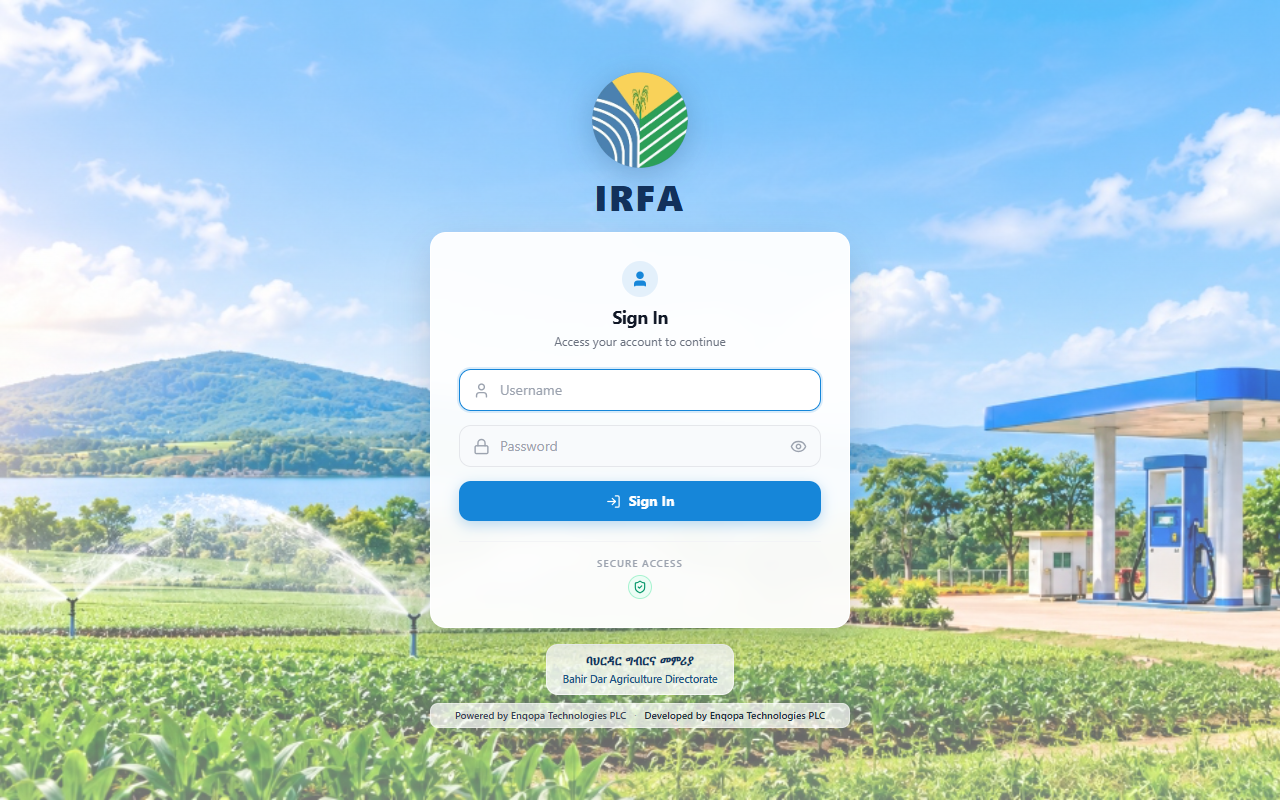
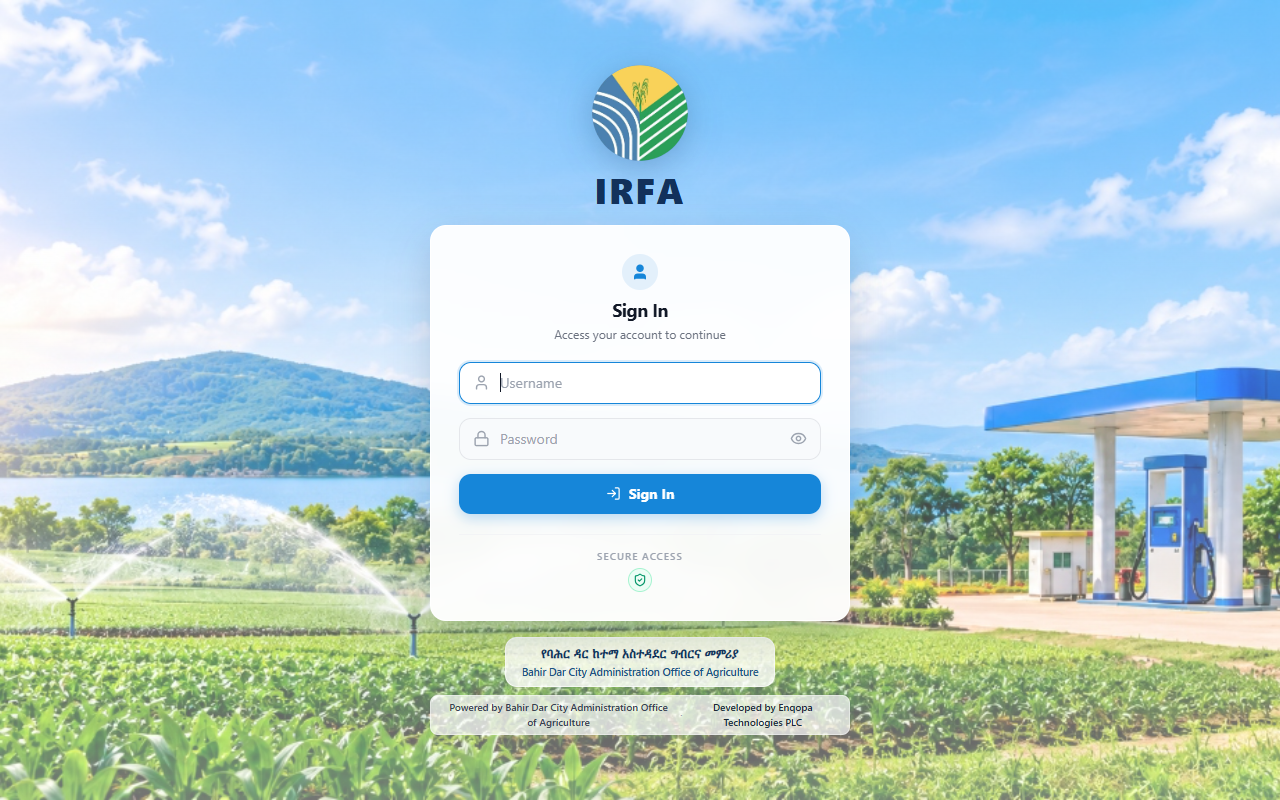
feat: update institutional owner to Bahir Dar City Administration Office of Agriculture

diff --git a/server/test_browser_e2e.ts b/server/test_browser_e2e.ts
@@ -93,17 +93,17 @@ async function runBrowserAcceptanceTests() {
     // 1.1 Minimal Institutional Landing / Login Page
     await page.goto(APP_URL, { waitUntil: 'networkidle2' });
     const landingTitle = await page.title();
-    const hasAmharicName = await page.evaluate(() => document.body.innerText.includes('ባህርዳር ግብርና መምሪያ'));
-    const hasEnglishName = await page.evaluate(() => document.body.innerText.includes('Bahir Dar Agriculture Directorate'));
+    const hasAmharicName = await page.evaluate(() => document.body.innerText.includes('የባሕር ዳር ከተማ አስተዳደር ግብርና መምሪያ'));
+    const hasEnglishName = await page.evaluate(() => document.body.innerText.includes('Bahir Dar City Administration Office of Agriculture'));
     const hasIrfaLogo = await page.evaluate(() => !!document.querySelector('img[alt*="IRFA"]'));
 
     results.push({
       suite: 'TEST 1 — APPLICATION & AUTHENTICATION',
-      testCase: 'Minimal institutional login layout & Bahir Dar Agriculture Directorate branding',
+      testCase: 'Minimal institutional login layout & Bahir Dar City Administration Office of Agriculture branding',
       role: 'Public / Unauthenticated',
-      expected: 'Title "IRFA | Bahir Dar Agriculture Directorate" with Amharic and English institutional branding',
-      actual: `Title: "${landingTitle}", Directorate branding: ${hasAmharicName && hasEnglishName}, Logo: ${hasIrfaLogo}`,
-      status: landingTitle.includes('Bahir Dar Agriculture Directorate') && hasAmharicName && hasEnglishName && hasIrfaLogo ? 'PASS' : 'FAIL',
+      expected: 'Title "IRFA | Bahir Dar City Administration Office of Agriculture" with Amharic and English institutional branding',
+      actual: `Title: "${landingTitle}", Office branding: ${hasAmharicName && hasEnglishName}, Logo: ${hasIrfaLogo}`,
+      status: landingTitle.includes('Bahir Dar City Administration Office of Agriculture') && hasAmharicName && hasEnglishName && hasIrfaLogo ? 'PASS' : 'FAIL',
     });
 
     // 1.2 Direct Centered Login Form Presentation

diff --git a/client/src/pages/LoginPage.tsx b/client/src/pages/LoginPage.tsx
@@ -53,7 +53,7 @@ export const LoginPage: React.FC = () => {
           <div className="w-20 h-20 sm:w-24 sm:h-24 mb-2 drop-shadow-[0_6px_16px_rgba(18,49,91,0.25)] transition-transform hover:scale-105 duration-300">
             <img
               src="/branding/irfa-mark.svg"
-              alt="IRFA Agriculture Directorate Emblem"
+              alt="IRFA Office of Agriculture Emblem"
               className="w-full h-full object-contain"
               onError={(e) => {
                 (e.target as HTMLImageElement).src = '/branding/irfa-logo.png';
@@ -188,16 +188,16 @@ export const LoginPage: React.FC = () => {
           {/* Institutional Identity */}
           <div className="inline-block bg-white/80 backdrop-blur-xs px-4 py-1.5 rounded-xl shadow-xs border border-white/60">
             <p className="text-xs sm:text-[13px] font-bold text-[#12315B] tracking-wide leading-snug">
-              ባህርዳር ግብርና መምሪያ
+              የባሕር ዳር ከተማ አስተዳደር ግብርና መምሪያ
             </p>
             <p className="text-[11px] font-semibold text-[#1E5285] tracking-tight mt-0.5">
-              Bahir Dar Agriculture Directorate
+              Bahir Dar City Administration Office of Agriculture
             </p>
           </div>
 
           {/* Technology Credits */}
           <div className="flex flex-col sm:flex-row items-center justify-center gap-1 sm:gap-2 text-[10px] text-gray-700 bg-white/70 backdrop-blur-xs px-3.5 py-1 rounded-lg shadow-xs border border-white/40">
-            <span className="font-medium">Powered by Enqopa Technologies PLC</span>
+            <span className="font-medium">Powered by Bahir Dar City Administration Office of Agriculture</span>
             <span className="hidden sm:inline text-gray-400">·</span>
             <span className="font-semibold text-gray-800">Developed by Enqopa Technologies PLC</span>
           </div>

diff --git a/client/src/components/cards/FarmerDigitalIdCard.tsx b/client/src/components/cards/FarmerDigitalIdCard.tsx
@@ -93,10 +93,10 @@ export const FarmerDigitalIdCard: React.FC<FarmerDigitalIdCardProps> = ({
           />
           <div className="leading-tight">
             <div className="text-[7.5pt] font-black tracking-wide text-white leading-none">
-              ባህርዳር ግብርና መምሪያ
+              የባሕር ዳር ከተማ አስተዳደር ግብርና መምሪያ
             </div>
             <div className="text-[5.5pt] font-bold text-blue-200 tracking-tight leading-none mt-[0.5mm]">
-              BAHIR DAR AGRICULTURE DIRECTORATE
+              BAHIR DAR CITY ADMINISTRATION OFFICE OF AGRICULTURE
             </div>
           </div>
         </div>
@@ -282,7 +282,7 @@ export const FarmerDigitalIdCard: React.FC<FarmerDigitalIdCardProps> = ({
       {/* Bottom Legal Footer */}
       <div className="bg-gray-100 text-gray-600 text-[4.5pt] px-[3mm] py-[1mm] border-t border-gray-200 flex justify-between items-center shrink-0">
         <span className="font-bold text-gray-700">
-          ባህርዳር ግብርና መምሪያ · Bahir Dar Agriculture Directorate
+          የባሕር ዳር ከተማ አስተዳደር ግብርና መምሪያ · Bahir Dar City Administration Office of Agriculture
         </span>
         <span className="font-mono text-gray-500">Property of Government</span>
       </div>

diff --git a/client/src/pages/station/ScannerPage.tsx b/client/src/pages/station/ScannerPage.tsx
@@ -431,8 +431,8 @@ export const ScannerPage: React.FC = () => {
                     (e.target as HTMLImageElement).src = '/branding/irfa-logo.png';
                   }}
                 />
-                <div className="text-sm font-extrabold text-gov-ink">ባህርዳር ግብርና መምሪያ</div>
-                <div className="text-[11px] font-bold text-[#1E5285]">Bahir Dar Agriculture Directorate</div>
+                <div className="text-sm font-extrabold text-gov-ink">የባሕር ዳር ከተማ አስተዳደር ግብርና መምሪያ</div>
+                <div className="text-[11px] font-bold text-[#1E5285]">Bahir Dar City Administration Office of Agriculture</div>
                 <div className="text-[10px] text-gov-muted mt-0.5">IRFA Irrigation Fuel Dispensing Receipt</div>
                 <div className="font-mono font-bold text-gov-blue text-xs mt-1">
                   Receipt #{dispenseSuccess.receipt.receiptNumber}

diff --git a/client/src/components/common/Sidebar.tsx b/client/src/components/common/Sidebar.tsx
@@ -114,8 +114,8 @@ export const Sidebar: React.FC = () => {
         />
         <div className="overflow-hidden">
           <h2 className="text-[14px] font-bold leading-tight m-0 text-white tracking-wide">IRFA</h2>
-          <p className="text-[10px] text-[#aebbd0] m-0 mt-0.5 truncate font-medium">ባህርዳር ግብርና መምሪያ</p>
-          <p className="text-[9px] text-[#7a8ea8] m-0 leading-tight truncate">Agriculture Directorate</p>
+          <p className="text-[10px] text-[#aebbd0] m-0 mt-0.5 truncate font-medium">የባሕር ዳር ከተማ አስተዳደር ግብርና መምሪያ</p>
+          <p className="text-[9px] text-[#7a8ea8] m-0 leading-tight truncate">Office of Agriculture</p>
         </div>
       </div>
 

diff --git a/client/src/components/cards/A4BatchCardSheet.tsx b/client/src/components/cards/A4BatchCardSheet.tsx
@@ -17,7 +17,7 @@ export const A4BatchCardSheet: React.FC<A4BatchCardSheetProps> = ({
     <div id="printable-batch-sheet" className="a4-sheet-container bg-white p-[8mm] shadow-lg print:shadow-none print:p-0">
       {/* Cut guide header for print preview only */}
       <div className="hidden print:block text-[8pt] font-mono text-gray-500 pb-[3mm] border-b border-gray-300 mb-[4mm]">
-        <span>IRFA Official Farmer Digital ID Cards · Bahir Dar Agriculture Directorate (A4 Cut Sheet)</span>
+        <span>IRFA Official Farmer Digital ID Cards · Bahir Dar City Administration Office of Agriculture (A4 Cut Sheet)</span>
         <span className="float-right">{new Date().toLocaleDateString()}</span>
       </div>
 

diff --git a/client/src/pages/agriculture/FarmersPage.tsx b/client/src/pages/agriculture/FarmersPage.tsx
@@ -401,7 +401,7 @@ Getachew Reda,+251 918 883 344,ETH-BD-2024-1012,3.2,Diesel,14 HP,Tomato`
                 </div>
                 <div>
                   <h3 className="text-sm font-bold text-gov-ink m-0">Register New Irrigation Farmer</h3>
-                  <p className="text-[11px] text-gov-muted m-0">ባህርዳር ግብርና መምሪያ · Bahir Dar Agriculture Directorate</p>
+                  <p className="text-[11px] text-gov-muted m-0">የባሕር ዳር ከተማ አስተዳደር ግብርና መምሪያ · Bahir Dar City Administration Office of Agriculture</p>
                 </div>
               </div>
               <button

diff --git a/client/src/pages/sysadmin/SystemHealthPage.tsx b/client/src/pages/sysadmin/SystemHealthPage.tsx
@@ -69,7 +69,7 @@ export const SystemHealthPage: React.FC = () => {
             </div>
             <div className="flex justify-between items-center">
               <span className="text-gov-muted">Owner Directorate:</span>
-              <span className="font-medium text-gov-ink">ባህርዳር ግብርና መምሪያ (Bahir Dar Agriculture Directorate)</span>
+              <span className="font-medium text-gov-ink">የባሕር ዳር ከተማ አስተዳደር ግብርና መምሪያ (Bahir Dar City Administration Office of Agriculture)</span>
             </div>
           </div>
         </div>

diff --git a/client/src/pages/ReportsPage.tsx b/client/src/pages/ReportsPage.tsx
@@ -61,7 +61,7 @@ export const ReportsPage: React.FC = () => {
             Departmental Reports & Distribution Monitoring
           </h1>
           <p className="text-xs text-gov-muted">
-            Audited statistics for Bahir Dar Agriculture Directorate (ባህርዳር ግብርና መምሪያ) fuel authorization program
+            Audited statistics for Bahir Dar City Administration Office of Agriculture (የባሕር ዳር ከተማ አስተዳደር ግብርና መምሪያ) fuel authorization program
           </p>
         </div>
 

diff --git a/server/src/server.ts b/server/src/server.ts
@@ -14,7 +14,7 @@ async function startServer() {
 
     app.listen(PORT, () => {
       console.log(`IRFA Server is running at http://localhost:${PORT}`);
-      console.log(`Target: Bahir Dar Agriculture Directorate (ባህርዳር ግብርና መምሪያ), Ethiopia`);
+      console.log(`Target: Bahir Dar City Administration Office of Agriculture (የባሕር ዳር ከተማ አስተዳደር ግብርና መምሪያ), Ethiopia`);
     });
   } catch (err) {
     console.error('Failed to initialize server or database connection:', err);

diff --git a/server/src/app.ts b/server/src/app.ts
@@ -33,7 +33,7 @@ app.get('/api/health', (_req, res) => {
   res.json({
     status: 'ok',
     system: 'IRFA — Irrigation Resource & Fuel Authorization System',
-    administration: 'Bahir Dar Agriculture Directorate (ባህርዳር ግብርና መምሪያ)',
+    administration: 'Bahir Dar City Administration Office of Agriculture (የባሕር ዳር ከተማ አስተዳደር ግብርና መምሪያ)',
     timestamp: new Date().toISOString(),
   });
 });

diff --git a/client/index.html b/client/index.html
@@ -4,7 +4,7 @@
     <meta charset="UTF-8" />
     <link rel="icon" type="image/svg+xml" href="/favicon.svg" />
     <meta name="viewport" content="width=device-width, initial-scale=1.0" />
-    <title>IRFA | Bahir Dar Agriculture Directorate</title>
+    <title>IRFA | Bahir Dar City Administration Office of Agriculture</title>
   </head>
   <body class="bg-gov-bg text-gov-ink antialiased">
     <div id="root"></div>
